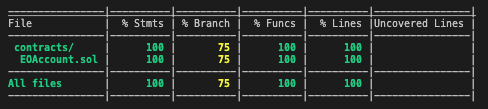
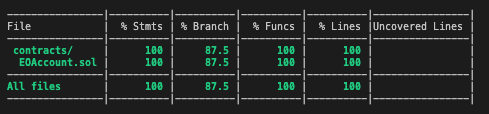
add some negative tests

Changed region(s): [[0.0, 0.055, 0.9836, 0.9358], [0.0, 0.7156, 0.123, 0.7982]]

diff --git a/test/EOAccount.js b/test/EOAccount.js
@@ -34,20 +34,33 @@ describe("EOAccount", function (){
 
   describe("Main logic", function(){
     describe("Balance", function(){
-      it("Fill amount is correct", async function(){
+      it("Fill amount by owner", async function(){
         await myEOAccountsContract.fillAmount({value: amount})
         expect(await myEOAccountsContract.totalAmount()).to.equal(amount)
       })
   
-      it("Fill amount without amount", async function(){
+      it("Fill amount without amount by owner", async function(){
         await myEOAccountsContract.fillAmount()
         expect(await myEOAccountsContract.totalAmount()).to.equal(0)
       })
 
-      it("Withdraw amount is correct", async function(){
+      it("Dont fill amount by other", async function(){
+        await expect(myEOAccountsContract.connect(accounts[1]).fillAmount({value: amount})).to.be.reverted
+      })
+
+      it("Withdraw amount by owner", async function(){
         await myEOAccountsContract.fillAmount({value: amount})
         expect(await myEOAccountsContract.withdrawAll())
         expect(await myEOAccountsContract.totalAmount()).to.equal(0)
+      })
+
+      it("Dont withdraw amount by other", async function(){
+        await myEOAccountsContract.fillAmount({value: amount})
+        await expect(myEOAccountsContract.connect(accounts[1]).withdrawAll()).to.be.reverted
+      })
+
+      it("Dont get total amount by other", async function(){
+        await expect(myEOAccountsContract.connect(accounts[1]).totalAmount()).to.be.reverted
       })
     })
 
@@ -63,8 +76,12 @@ describe("EOAccount", function (){
         await myEOAccountsContract.getTokens(amount)
       })
 
+      it("Dont get 0 tokens by owner", async function(){
+        await expect(myEOAccountsContract.getTokens(0)).to.be.reverted
+      })
+
       it("Dont get tokens when by other", async function(){
-        await expect(myEOAccountsContract.getTokens(amount)).to.be.reverted
+        await expect(myEOAccountsContract.connect(accounts[2]).getTokens(amount)).to.be.reverted
       })
 
       it("Send tokens by owner", async function(){
@@ -73,8 +90,12 @@ describe("EOAccount", function (){
         await myEOAccountsContract.sendTokens(accounts[1].address, amount)
       })
 
+      it("Dont send 0 tokens by owner", async function(){
+        await expect(myEOAccountsContract.sendTokens(accounts[1].address, 0)).to.be.reverted
+      })
+
       it("Dont send tokens when by other", async function(){
-        await expect(myEOAccountsContract.sendTokens(accounts[1].address, amount)).to.be.reverted
+        await expect(myEOAccountsContract.connect(accounts[2]).sendTokens(accounts[1].address, amount)).to.be.reverted
       })
 
       it("Approve debbiting tokens by owner", async function(){
@@ -244,18 +265,29 @@ describe("EOAccount", function (){
     })
 
     describe("Grant role", function(){
-      it("Grant role by admin", async function(){
+      it("Grant trusted role by admin", async function(){
         await myEOAccountsContract.grantRole(trustedRole, accounts[5].address)
-
         expect(await myEOAccountsContract.hasRole(trustedRole, accounts[5].address)).to.equal(true)
         expect(await myEOAccountsContract.getCountTrustedAccounts()).to.equal(4)
       })
     
-      it("Dont grant role by trusted", async function(){
+      it("Grant admin role by admin", async function(){
+        expect(await myEOAccountsContract.hasRole(adminRole, accounts[5].address)).to.equal(false)
+        await myEOAccountsContract.grantRole(adminRole, accounts[5].address)
+        expect(await myEOAccountsContract.hasRole(adminRole, accounts[5].address)).to.equal(true)
+      })
+
+      it("Dont grant trusted role by admin, becouse double granting", async function(){
+        await myEOAccountsContract.grantRole(trustedRole, accounts[5].address)
+        expect(await myEOAccountsContract.hasRole(trustedRole, accounts[5].address)).to.equal(true)
+        await expect(myEOAccountsContract.grantRole(trustedRole, accounts[5].address)).to.be.reverted
+      })
+
+      it("Dont grant trusted role by trusted", async function(){
         await expect(myEOAccountsContract.connect(accounts[2]).grantRole(trustedRole, accounts[5].address)).to.be.reverted
       })
     
-      it("Dont grant role by alies", async function(){
+      it("Dont grant trusted role by alies", async function(){
         await expect(myEOAccountsContract.connect(accounts[7]).grantRole(trustedRole, accounts[5].address)).to.be.reverted
       })  
     })
@@ -285,10 +317,20 @@ describe("EOAccount", function (){
         expect(await myEOAccountsContract.getCountTrustedAccounts()).to.equal(2)
       })
     
+      it("Renounce not exists role by trusted account", async function(){
+        expect(await myEOAccountsContract.hasRole(adminRole, accounts[1].address)).to.equal(false)
+        myEOAccountsContract.connect(accounts[1]).renounceRole(adminRole, accounts[1].address)
+        expect(await myEOAccountsContract.hasRole(adminRole, accounts[1].address)).to.equal(false)
+      })
+
       it("Dont renounce role by admin", async function(){
         await expect(myEOAccountsContract.renounceRole(trustedRole, accounts[2].address)).to.be.reverted
       })
     
+      it("Dont renounce trusted role by other trusted account", async function(){
+        await expect(myEOAccountsContract.connect(accounts[1]).renounceRole(trustedRole, accounts[2].address)).to.be.reverted
+      })
+
       it("Dont renounce role by alias account", async function(){
         await expect(myEOAccountsContract.connect(accounts[6]).renounceRole(trustedRole, accounts[2].address)).to.be.reverted
       })
